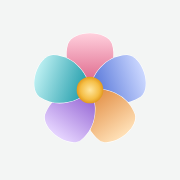
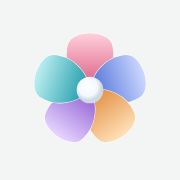
꽃달력: 흰 꽃술, 기울기 출렁임, 날 바꿈 솟아오름, 누른 꽃잎 들림, 입체 끄기
- 꽃 가운데를 흰 구슬로(입체·그림 꽃·로고·앱 아이콘)
- 기울기에 카메라가 더 크게 돌고, 기울기 변화가 스프링으로 꽃머리·꽃잎·줄기를 출렁이게
- 날을 넘기면 지금 꽃은 땅으로 들어가고 새 꽃이 솟아올라 핀다
- 꽃잎을 누르면 그 꽃잎이 앞으로 들리며 살랑, 나머지는 옅게
- 작은 꽃잎 끝에 둥근 반짝
- 설정 '장면'에서 입체로 보기 / 그림으로 보기 (kkot:prefs.flat), WebGL 이 없으면 입체 단추를 잠근다

Claude-Session: https://claude.ai/code/session_01GNcKmgVVmoF919Nfc7PKhQ

Changed region(s): [[0.4167, 0.4167, 0.5833, 0.5833]]

diff --git a/mobile/index.html b/mobile/index.html
@@ -343,6 +343,7 @@ button.chip:active{transform:translateY(2px);box-shadow:inset 0 -3px 0 var(--sha
 mark{background:var(--yellow);color:#2A211D;border-radius:3px;padding:0 1px}
 .opt{display:grid;grid-template-columns:1fr 1fr;gap:4px;padding:3px;border-radius:16px;border:2.5px solid var(--line);background:var(--surface);box-shadow:inset 0 3px 0 var(--shade)}
 .opt button{height:40px;border:0;border-radius:12px;background:none;font-weight:800;color:var(--ink-2)}
+.opt button:disabled{opacity:.35}
 .opt button[aria-pressed="true"]{background:var(--glint),var(--yellow);box-shadow:inset 0 -3px 0 var(--yel-sh);color:#2A211D}
 .srcs{list-style:none;margin:0;padding:0}
 .srcs li{display:flex;gap:10px;align-items:baseline;padding:12px 16px;font-size:14px;border-top:2px solid var(--hair)}
@@ -472,10 +473,11 @@ const forParam = new URLSearchParams(location.search).get('for');
 const S = {
   mode: forParam === 'student' || forParam === 'teacher' ? forParam : (prefs.mode === 'student' ? 'student' : 'teacher'),
   dept: typeof prefs.dept === 'string' ? prefs.dept : '',
+  flat: prefs.flat === true,   // 입체 대신 그림 장면
   src: {}, loading: false, lastLoad: 0, today: todayKey(),
   month: null, yearView: false, sheet: null, q: '', word: null, bloomed: '', focus: null, slide: '',
 };
-const savePrefs = () => store.set(PREFS, {mode: S.mode, dept: S.dept});
+const savePrefs = () => store.set(PREFS, {mode: S.mode, dept: S.dept, flat: S.flat});
 if (forParam) savePrefs();
 let M = emptyModel();
 
@@ -953,7 +955,9 @@ const mound = (y, w) => `<path d="M${-w} ${y}C${-w * .6} ${y - 22} ${w * .6} ${y
 function petalG(L, W, c, detail, attrs, sw = SW) {
   return `<g class="pt" ${attrs}><path d="${petalPath(L, W)}" fill="${c[0]}" stroke="${INK}" stroke-width="${sw}" stroke-linejoin="round"/>`
     + `<path d="${petalPath(L * .5, W * .64)}" fill="${c[1]}"/>`
-    + (detail ? line(`M${n1(W * .26)} ${n1(-L * .9)}Q${n1(W * .56)} ${n1(-L * .84)} ${n1(W * .64)} ${n1(-L * .7)}`, SW * .8, 'rgba(255,255,255,.9)') : '')
+    + (detail ? line(`M${n1(W * .26)} ${n1(-L * .9)}Q${n1(W * .56)} ${n1(-L * .84)} ${n1(W * .64)} ${n1(-L * .7)}`, SW * .8, 'rgba(255,255,255,.9)')
+      // 작은 꽃: 입체 꽃처럼 끝 가까이 둥근 반짝
+      : sw > SW ? `<ellipse cx="${n1(W * .34)}" cy="${n1(-L * .74)}" rx="${n1(W * .26)}" ry="${n1(L * .12)}" transform="rotate(-18 ${n1(W * .34)} ${n1(-L * .74)})" fill="#fff" opacity=".85"/>` : '')
     + `</g>`;
 }
 function centerG(r, c, detail, n, sw = SW) {
@@ -1035,7 +1039,7 @@ function flowerSVG(f, o = {}) {
       labels += `<g class="lb" data-ev="${i}" style="--k:${k}"><text x="${n1(sin * r)}" y="${n1(-cos * r)}" font-size="${fs}">${esc(t)}</text></g>`;
     }
   });
-  g += labels + centerG(cr, ['#FFD43B', '#F59F00'], o.detail, n, sw);
+  g += labels + centerG(cr, ['#FFFFFF', '#D3DCE8'], o.detail, n, sw);
   if (f.busy >= PEAK && o.detail) {
     g += sparkG(R * 1.02, -R * .8, 17, 0) + sparkG(-R * 1.06, -R * .38, 12, 700) + sparkG(R * .92, R * .62, 10, 1400);
   }
@@ -1358,7 +1362,7 @@ function render() {
     + (f ? peaksHTML() + gardenHTML() : '') + footHTML();
   S.slide = '';
   paintTop();
-  if (K3.on) K3.mount();
+  if (K3.on && !S.flat) K3.mount();
 }
 
 // 첫 화면의 날을 하루씩 옮긴다 (n = +1 다음 날, -1 전날)
@@ -1573,6 +1577,9 @@ function moreSheet() {
     + `<button data-action="mode" data-v="student" aria-pressed="${S.mode === 'student'}">학생용</button></div>`
     + `<p class="hint">${S.mode === 'student' ? '학생용은 ‘(학생용)연중행사계획’ 시트로 꽃을 피워요.' : '교사용은 연중행사계획에 기도·감독·공지를 더해 보여 줘요.'} 학생에게는 학생용 주소를 보내 주세요.</p>`
     + `<div class="btns"><button class="btn" data-action="copy" data-url="${esc(studentUrl)}">학생용 주소 복사</button></div>`;
+  h += sec('장면', '', `<div class="opt" role="group" aria-label="장면"><button data-action="view3d" data-v="on" aria-pressed="${!S.flat}"${K3.fail ? ' disabled' : ''}>입체로 보기</button>`
+    + `<button data-action="view3d" data-v="off" aria-pressed="${S.flat}">그림으로 보기</button></div>`
+    + `<p class="hint">${K3.fail ? '이 기기에선 입체를 쓸 수 없어 그림으로 보여 줘요.' : '입체는 폰을 기울이면 꽃이 따라 움직여요. 느린 폰이거나 배터리를 아낄 땐 그림으로 보세요.'}</p>`);
 
   const ex = (stage, busy, n, sub) => {
     const work = Array.from({length: n}, (_, i) => ({w: 1, periods: null, i, c: DEPT_COLORS[(i * 5 + n) % DEPT_COLORS.length]}));
@@ -1752,10 +1759,10 @@ void main(){
 const INK_FS = `uniform vec3 uInk; uniform float uFade; void main(){ gl_FragColor = vec4(mix(uInk, vec3(0.93, 0.96, 1.0), uFade * 0.8), 1.0); }`;
 
 function load3d() {
-  if (K3.tried) return;
+  if (K3.tried || S.flat) return;
   K3.tried = true;
-  try { const c = document.createElement('canvas'); if (!(c.getContext('webgl2') || c.getContext('webgl'))) return; } catch { return; }
-  import('./three.module.min.js').then(init3d).catch(() => {});
+  try { const c = document.createElement('canvas'); if (!(c.getContext('webgl2') || c.getContext('webgl'))) { K3.fail = true; return; } } catch { K3.fail = true; return; }
+  import('./three.module.min.js').then(init3d).catch(() => { K3.tried = false; });
 }
 
 function init3d(T) {
@@ -1864,10 +1871,13 @@ function init3d(T) {
   // 꽃(또는 봉오리·새싹). 날이 바뀔 때마다 새로 세운다.
   let plant = null, petals = [], hub = null, bloom = null, head = null, sparks = [];
   const HEAD_Y = 1.62;
-  function clearPlant() {
+  // 날이 바뀌면 지금 꽃은 땅으로 쏙 들어가고(leaving), 새 꽃이 솟아올라 핀다(rise)
+  const PLANT_Y = .2;
+  let leaving = [], rise = null;
+  const disposeG = g => { g.traverse(o => { if (o.isMesh) { o.material.dispose(); if (o.geometry !== SPHERE && o.geometry !== BEAD) o.geometry.dispose(); } }); scene.remove(g); };
+  function clearPlant(sink) {
     if (!plant) return;
-    plant.traverse(o => { if (o.isMesh) { o.material.dispose(); if (o.geometry !== SPHERE && o.geometry !== BEAD) o.geometry.dispose(); } });
-    scene.remove(plant);
+    if (sink) leaving.push({g: plant, t0: performance.now(), y0: plant.position.y}); else disposeG(plant);
     plant = null; petals = []; hub = null; head = null; sparks = [];
   }
   function stemTo(y, bend = .08) {
@@ -1880,8 +1890,8 @@ function init3d(T) {
     l.rotation.set(.35, 0, side * 1.05);
     return l;
   }
-  function buildPlant(f) {
-    clearPlant();
+  function buildPlant(f, sink) {
+    clearPlant(sink);
     plant = new T.Group();
     const n = f.work.length;
     if (n) {
@@ -1906,9 +1916,9 @@ function init3d(T) {
         pivot.add(p);
         head.add(pivot);
         const i = f.work.indexOf(it);
-        petals.push({pivot, g: p, i, k, L, W, t: short(it.dept || ''), a, step, lb: null});
+        petals.push({pivot, g: p, i, k, L, W, t: short(it.dept || ''), a, step, lb: null, z0: p.position.z, pop: 0});
       });
-      hub = toon(SPHERE, '#FFD43B', '#F59F00', {spec: .9});
+      hub = toon(SPHERE, '#FFFFFF', '#D3DCE8');
       hub.userData.r = cr; hub.scale.set(cr, cr, cr * .7); hub.position.z = .12;
       head.add(hub);
       // 가장 만개한 날엔 반짝이 셋 (그림 꽃과 같은 자리)
@@ -1932,7 +1942,7 @@ function init3d(T) {
       plant.add(l, r);
       head = new T.Group(); head.position.set(0, 1.1, 0); plant.add(head);
     }
-    plant.position.set(0, .2, 0);
+    plant.position.set(0, PLANT_Y, 0);
     scene.add(plant);
   }
 
@@ -1994,7 +2004,7 @@ function init3d(T) {
   const TARGET = new T.Vector3(0, 1.72, 0), DIST = 7.2, PITCH = .12;
   const v = new T.Vector3(), box = new T.Box3();
   function aim() {
-    const yaw = tilt.x * .17, pitch = PITCH + tilt.y * .07;
+    const yaw = tilt.x * .3, pitch = PITCH + tilt.y * .13;
     camera.position.set(TARGET.x + Math.sin(yaw) * Math.cos(pitch) * DIST, TARGET.y + Math.sin(pitch) * DIST, TARGET.z + Math.cos(yaw) * Math.cos(pitch) * DIST);
     camera.lookAt(TARGET);
     camera.updateMatrixWorld();
@@ -2002,37 +2012,75 @@ function init3d(T) {
   }
   const toScreen = p => { v.copy(p).project(camera); return [(v.x + 1) / 2 * K3.w, (1 - v.y) / 2 * K3.h]; };
 
-  let raf = 0, visible = true, last = 0;
+  let raf = 0, visible = true, last = 0, sway = 0, popping = false, sel = null, selT = 0;
+  // 꽃잎 출렁임: 기울기가 바뀐 만큼 스프링을 밀고, 스프링이 꽃머리·꽃잎·줄기를 흔든다
+  const wob = {x: 0, vx: 0, y: 0, vy: 0};
   const still = () => reduced();
+  const back = x => { const c1 = 1.70158, c3 = c1 + 1; return 1 + c3 * (x - 1) ** 3 + c1 * (x - 1) ** 2; };
+  const clamp01 = x => Math.max(0, Math.min(1, x));
   function kick() { if (!raf && K3.host && visible && !document.hidden) raf = requestAnimationFrame(frame); }
   function frame(now) {
     raf = 0;
     if (!K3.host || !canvas.isConnected) return;
+    const moving = bloom || rise || leaving.length || popping || Math.abs(wob.vx) + Math.abs(wob.vy) > 1e-4;
     // 가만히 흔들릴 때는 초당 30장이면 충분하다 (배터리)
-    if (!tilt.src && !bloom && now - last < 30) { raf = requestAnimationFrame(frame); return; }
+    if (!tilt.src && !moving && now - last < 30) { raf = requestAnimationFrame(frame); return; }
+    const dt = last ? Math.min(3, (now - last) / 16.7) : 1;
     last = now;
     const t = now / 1000;
     const frozen = !!K3.host.closest('.flw.open');
     let busy = false;
     if (!frozen && !still()) {
       const tx = tilt.src ? tilt.gx : Math.sin(t / 3.1) * .35, ty = tilt.src ? tilt.gy : Math.sin(t / 4.3) * .25;
-      tilt.x += (tx - tilt.x) * .08; tilt.y += (ty - tilt.y) * .08;
-      if (plant) plant.rotation.z = Math.sin(t * .9) * .02;
+      const ox = tilt.x, oy = tilt.y;
+      tilt.x += (tx - tilt.x) * Math.min(1, .09 * dt); tilt.y += (ty - tilt.y) * Math.min(1, .09 * dt);
+      wob.vx += (tilt.x - ox) * 1.8; wob.vy += (tilt.y - oy) * 1.8;
+      sway = Math.sin(t * .9) * .02;
       clouds.forEach((c, i) => { c.position.x = c.userData.x + Math.sin(t / (18 + i * 7) + i) * .5; });
       busy = true;
     }
+    wob.vx += (-wob.x * .09 - wob.vx * .11) * dt; wob.x += wob.vx * dt;
+    wob.vy += (-wob.y * .09 - wob.vy * .11) * dt; wob.y += wob.vy * dt;
+    if (Math.abs(wob.x) + Math.abs(wob.vx) + Math.abs(wob.y) + Math.abs(wob.vy) > 1e-3) busy = true;
+    if (plant) {
+      plant.rotation.z = sway - wob.x * .3;
+      if (head && petals.length) { head.rotation.y = tilt.x * .22 + wob.x * .6; head.rotation.x = -.12 - wob.y * .4; }
+    }
+    // 꽃잎: 출렁임 + 누른 꽃잎은 앞으로 들리며 살랑
+    popping = false;
+    for (const p of petals) {
+      const on = sel != null && String(p.i) === String(sel);
+      p.pop += ((on ? 1 : 0) - p.pop) * Math.min(1, .22 * dt);
+      if (Math.abs((on ? 1 : 0) - p.pop) > .01) popping = true;
+      const ar = p.a * Math.PI / 180;
+      const e = on && !still() ? now - selT : Infinity;
+      if (e < 900) popping = true;
+      p.g.rotation.x = .38 + (wob.x * Math.sin(ar) + wob.y * Math.cos(ar)) * 1.3 - p.pop * .14;
+      p.g.rotation.y = e < 900 ? Math.sin(e / 55) * .18 * (1 - e / 900) : 0;
+      p.g.position.z = p.z0 + p.pop * .18;
+      p.g.scale.setScalar(1 + p.pop * .1);
+    }
+    if (popping) busy = true;
+    // 날 바꿈: 헌 꽃은 가라앉고 새 꽃은 솟는다
+    leaving = leaving.filter(l => { const x = clamp01((now - l.t0) / 280); l.g.position.y = l.y0 - 2.6 * x * x; if (x < 1) return true; disposeG(l.g); return false; });
+    if (rise && plant) {
+      const x = clamp01((now - rise) / 560);
+      plant.position.y = PLANT_Y - 2.4 * (1 - back(x));
+      if (x >= 1) rise = null;
+    }
+    if (leaving.length || rise) busy = true;
     // 피어나기: 꽃잎이 차례로 톡톡
     if (bloom) {
       const e = now - bloom;
       let done = true;
-      const back = x => { const c1 = 1.70158, c3 = c1 + 1; return 1 + c3 * (x - 1) ** 3 + c1 * (x - 1) ** 2; };
       for (const p of petals) {
-        const x = Math.max(0, Math.min(1, (e - 120 - p.k * 70) / 650));
+        const x = clamp01((e - 120 - p.k * 70) / 650);
         p.pivot.scale.setScalar(Math.max(1e-3, back(x)));
-        if (p.lb) p.lb.style.opacity = String(Math.max(0, Math.min(1, (e - 480 - p.k * 70) / 300)));
+        if (p.lb) p.lb.style.opacity = String(clamp01((e - 480 - p.k * 70) / 300));
         if (x < 1) done = false;
       }
-      if (hub) { const x = Math.max(0, Math.min(1, (e - 160 - petals.length * 70) / 450)), s = Math.max(1e-3, back(x)) * hub.userData.r; hub.scale.set(s, s, s * .7); if (x < 1) done = false; }
+      for (const sp of sparks) sp.el.style.opacity = String(clamp01((e - 600 - petals.length * 70) / 300));
+      if (hub) { const x = clamp01((e - 160 - petals.length * 70) / 450), s = Math.max(1e-3, back(x)) * hub.userData.r; hub.scale.set(s, s, s * .7); if (x < 1) done = false; }
       if (done) bloom = null; else busy = true;
     }
     aim();
@@ -2050,8 +2098,8 @@ function init3d(T) {
       const [x, y] = toScreen(v);
       sp.el.style.left = `${n1(x)}px`; sp.el.style.top = `${n1(y)}px`;
     }
-    K3.host.style.setProperty('--px', `${n1(-tilt.x * 10)}px`);
-    K3.host.style.setProperty('--py', `${n1(tilt.y * 6)}px`);
+    K3.host.style.setProperty('--px', `${n1(-tilt.x * 16)}px`);
+    K3.host.style.setProperty('--py', `${n1(tilt.y * 9)}px`);
     if (busy) raf = requestAnimationFrame(frame);
   }
   new IntersectionObserver(es => { visible = es[es.length - 1].isIntersecting; if (visible) kick(); }).observe(canvas);
@@ -2098,7 +2146,9 @@ function init3d(T) {
     const h = hash(k);
     clouds[0].userData.x = -2.6 + h * 1.6; clouds[0].position.set(clouds[0].userData.x, 3.35, -10);
     clouds[1].userData.x = .8 + h * 1.4; clouds[1].position.set(clouds[1].userData.x, 2.45, -12); clouds[1].scale.setScalar(.75);
-    buildPlant(f);
+    const changed = K3.date !== k && !still();
+    K3.date = k;
+    buildPlant(f, changed);
     let lbs = w.querySelector('.lbs');
     if (!lbs) { lbs = document.createElement('div'); lbs.className = 'lbs'; w.appendChild(lbs); }
     w.prepend(canvas);
@@ -2107,14 +2157,23 @@ function init3d(T) {
     buildLabels(lbs);
     K3.host = sc;
     sc.classList.add('is3d');
-    bloom = S.bloomAnim && !still() ? performance.now() : null;
-    if (bloom) { for (const p of petals) { p.pivot.scale.setScalar(1e-3); if (p.lb) p.lb.style.opacity = '0'; } if (hub) hub.scale.setScalar(1e-3); }
+    const now = performance.now();
+    rise = changed ? now : null;
+    if (rise) plant.position.y = PLANT_Y - 2.4;
+    bloom = (S.bloomAnim || changed) && !still() ? now + (changed ? 260 : 0) : null;
+    if (bloom) {
+      for (const p of petals) { p.pivot.scale.setScalar(1e-3); if (p.lb) p.lb.style.opacity = '0'; }
+      for (const sp of sparks) sp.el.style.opacity = '0';
+      if (hub) hub.scale.setScalar(1e-3);
+    }
     K3.dim(null);
     size();
     kick();
   };
   // 꽃잎 하나만 밝히기 (null 이면 모두)
-  K3.dim = i => { for (const p of petals) fade(p.g, i == null || String(p.i) === String(i) ? 0 : .72); kick(); };
+  K3.dim = i => { for (const p of petals) fade(p.g, i == null || String(p.i) === String(i) ? 0 : .72); sel = i; selT = performance.now(); kick(); };
+  // 그림으로 보기로 바꾸면 캔버스를 떼고 멈춘다
+  K3.unmount = () => { cancelAnimationFrame(raf); raf = 0; canvas.remove(); if (K3.host) K3.host.classList.remove('is3d'); K3.host = null; K3.date = null; };
   // 누른 자리의 꽃잎 번호
   const ray = new T.Raycaster(), ndc = new T.Vector2();
   K3.pick = (cx, cy) => {
@@ -2181,6 +2240,16 @@ document.addEventListener('click', e => {
     case 'next': S.month = shiftMonth(S.month, 1); renderGarden(); break;
     case 'view-month': S.yearView = false; renderGarden(); break;
     case 'view-year': S.yearView = true; renderGarden(); break;
+    case 'view3d': {
+      const flat = a.dataset.v === 'off';
+      if (flat === S.flat) break;
+      S.flat = flat;
+      savePrefs();
+      if (flat && K3.on) K3.unmount();
+      render(); paintSheet();
+      if (!flat && !K3.on) load3d();
+      break;
+    }
     case 'mode': {
       const v = a.dataset.v;
       if (v === S.mode) break;

diff --git a/README.md b/README.md
@@ -95,9 +95,13 @@
   움직임 줄이기 설정이면 내리는 것과 나비는 그리지 않는다.
 - 하루 카드의 장면은 입체 만화 렌더링이다(옛 게임기의 셀 셰이딩처럼): 꽃잎·꽃술·줄기·잎·언덕·나무·구름·풀·들꽃을
   입체로 세우고, 밝은 면과 그늘 두 톤 + 흰 반사광으로 칠한 뒤 뒤집은 껍질로 먹선을 두른다. 꽃잎 색은 부서의 [밝은 면, 그늘] 색 그대로.
-  - 폰을 기울이면(자이로) 카메라가 조금 돌아 입체가 보인다. iOS 는 화면을 처음 누를 때 기울기 허락을 묻는다.
-    컴퓨터에선 마우스를 따라, 아무 입력이 없으면 천천히 흔들린다.
-  - 부서 글자·반짝이는 꽃잎 위에 늘 똑바로 선 HTML 이다. 꽃잎이나 글자를 누르면 말풍선이 뜬다.
+  - 폰을 기울이면(자이로) 카메라가 돌아 입체가 보이고, 기울기가 바뀐 만큼 스프링이 꽃머리·꽃잎·줄기를 출렁이게 한다.
+    iOS 는 화면을 처음 누를 때 기울기 허락을 묻는다. 컴퓨터에선 마우스를 따라, 아무 입력이 없으면 천천히 흔들린다.
+  - 부서 글자·반짝이는 꽃잎 위에 늘 똑바로 선 HTML 이다. 꽃잎이나 글자를 누르면 말풍선이 뜨고,
+    그 꽃잎은 앞으로 들리며 살랑이고 나머지는 옅게 바랜다.
+  - 날을 넘기면 지금 꽃은 땅으로 쏙 들어가고 새 꽃이 솟아올라 톡톡 핀다.
+  - 꽃 가운데(꽃술)는 흰 구슬이다. 작은 꽃(주간 막대·정원·곧 만개)도 가운데가 희고 꽃잎 끝에 둥근 반짝이 있다.
+  - 설정의 `장면`에서 `그림으로 보기`를 고르면 입체를 끄고 그림 장면만 쓴다(`kkot:prefs` 의 `flat`).
   - `mobile/three.module.min.js`(three.js r169, MIT)를 첫 화면을 그린 뒤에 받는다. 받지 못하거나 WebGL 이 없으면
     그림(SVG) 장면이 그대로 남는다. 입체 코드는 `init3d()`, 날마다 꽃을 세우는 곳은 `K3.mount`.
 - 하루를 보는 곳은 하루 카드 하나다. 주간 막대·정원·곧 만개·검색 결과에서 날짜를 누르면 카드가 그날로 바뀌고 맨 위로 올라간다.
